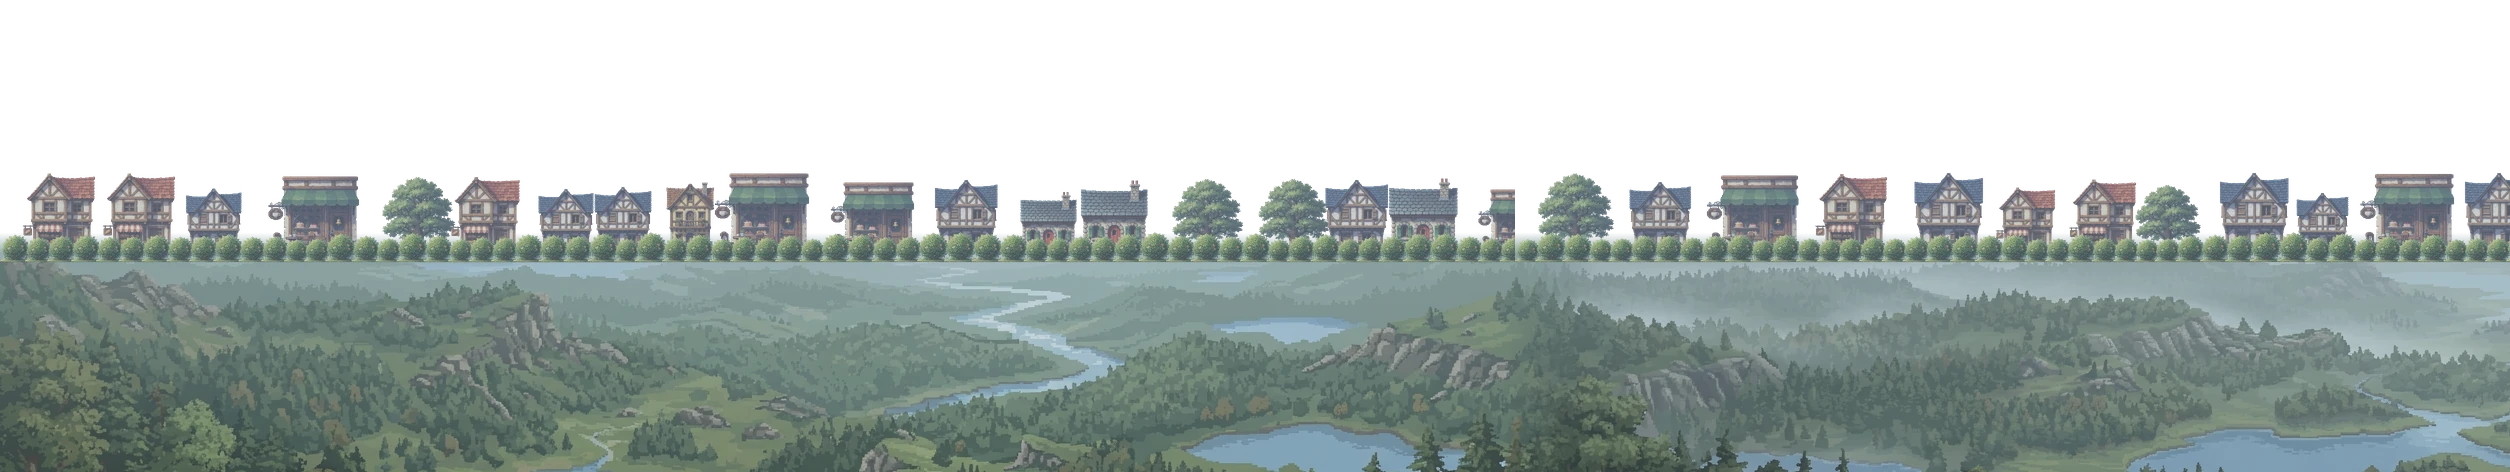
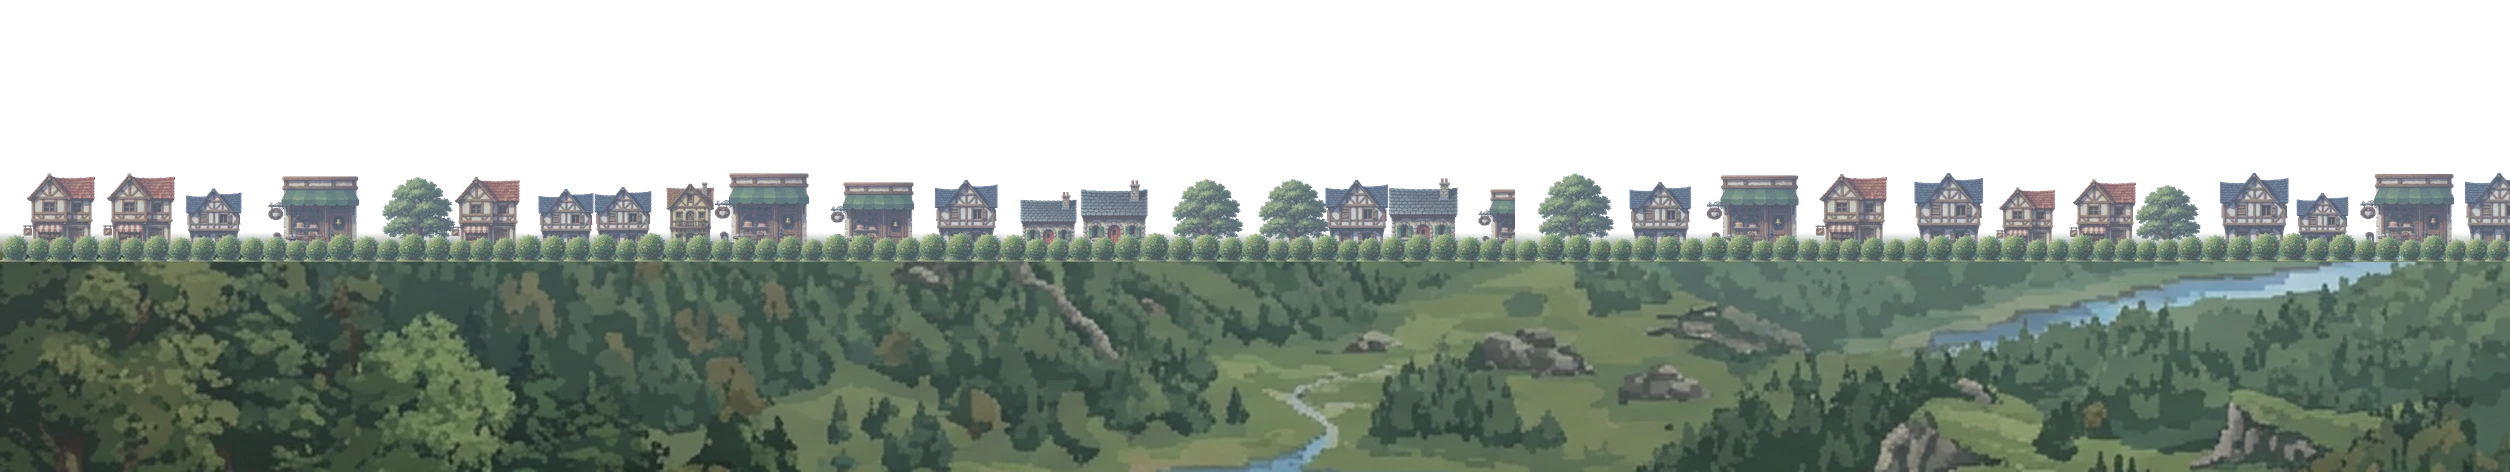
Night Watch art: forest and mix backdrops zoomed in with stronger contrast so the landscape reads in the visible band
Claude-Session: https://claude.ai/code/session_01JTmPY8Mp65o4MB5dxNnbWK

diff --git a/game/tools/watch_art/build_final.py b/game/tools/watch_art/build_final.py
@@ -36,14 +36,15 @@ from compose import piece, haze
 # generation (tools/watch_art/<set>/pano-*.png), cropped just below their horizon, zoomed, hazed and cross-faded side
 # by side. back.webp uses the villages set; back-forest.webp (forest, terrain and lakes) and back-mix.webp (forest
 # with a few villages) are variants for Ladi to pick from.
-TOPS = {'villages': (310, 260, 260), 'forest': (200, 230, 180), 'mix': (160, 170, 160)}   # first row of land kept, per panorama
+TOPS = {'villages': (310, 260, 260), 'forest': (330, 360, 300), 'mix': (300, 330, 300)}   # first row of land kept, per panorama
 def backdrop(sett):
     bk = back0.copy(); PH = BH - base + 30; strip = Image.new('RGBA', (BW, PH)); xo = 0; k = 0
     while xo < BW:
         p = Image.open(f'{sett}/pano-{k % 3 + 1}.png').convert('RGB').resize((1584, 672), Image.LANCZOS); top = TOPS[sett][k % 3]
-        land = p.crop((0, top, 1584, top + 240)); w = round(1584 * PH / 240); land = land.resize((w, PH), Image.LANCZOS)   # zoomed so the villages sit between the horizon row and the road above in size
+        CH = 240 if sett == 'villages' else 110   # forest and mix zoomed in hard so trees, rocks and lakes read in the thin visible band (Ladi, Nov 18)
+        land = p.crop((0, top, 1584, top + CH)); w = round(1584 * PH / CH); land = land.resize((w, PH), Image.LANCZOS)   # zoomed so the villages sit between the horizon row and the road above in size
         arr = np.asarray(land).astype(float); fog = np.array([150, 170, 176.0])
-        t = np.linspace(0.55, 0.3, PH)[:, None, None]   # hazier towards the horizon
+        t = np.linspace(0.55, 0.3, PH)[:, None, None] * (1 if sett == 'villages' else 0.45)   # hazier towards the horizon
         arr = arr * (1 - t) + fog * t
         al = np.full((PH, w), 255.0); f = 80
         if xo: al[:, :f] = np.linspace(0, 255, f)[None, :]
